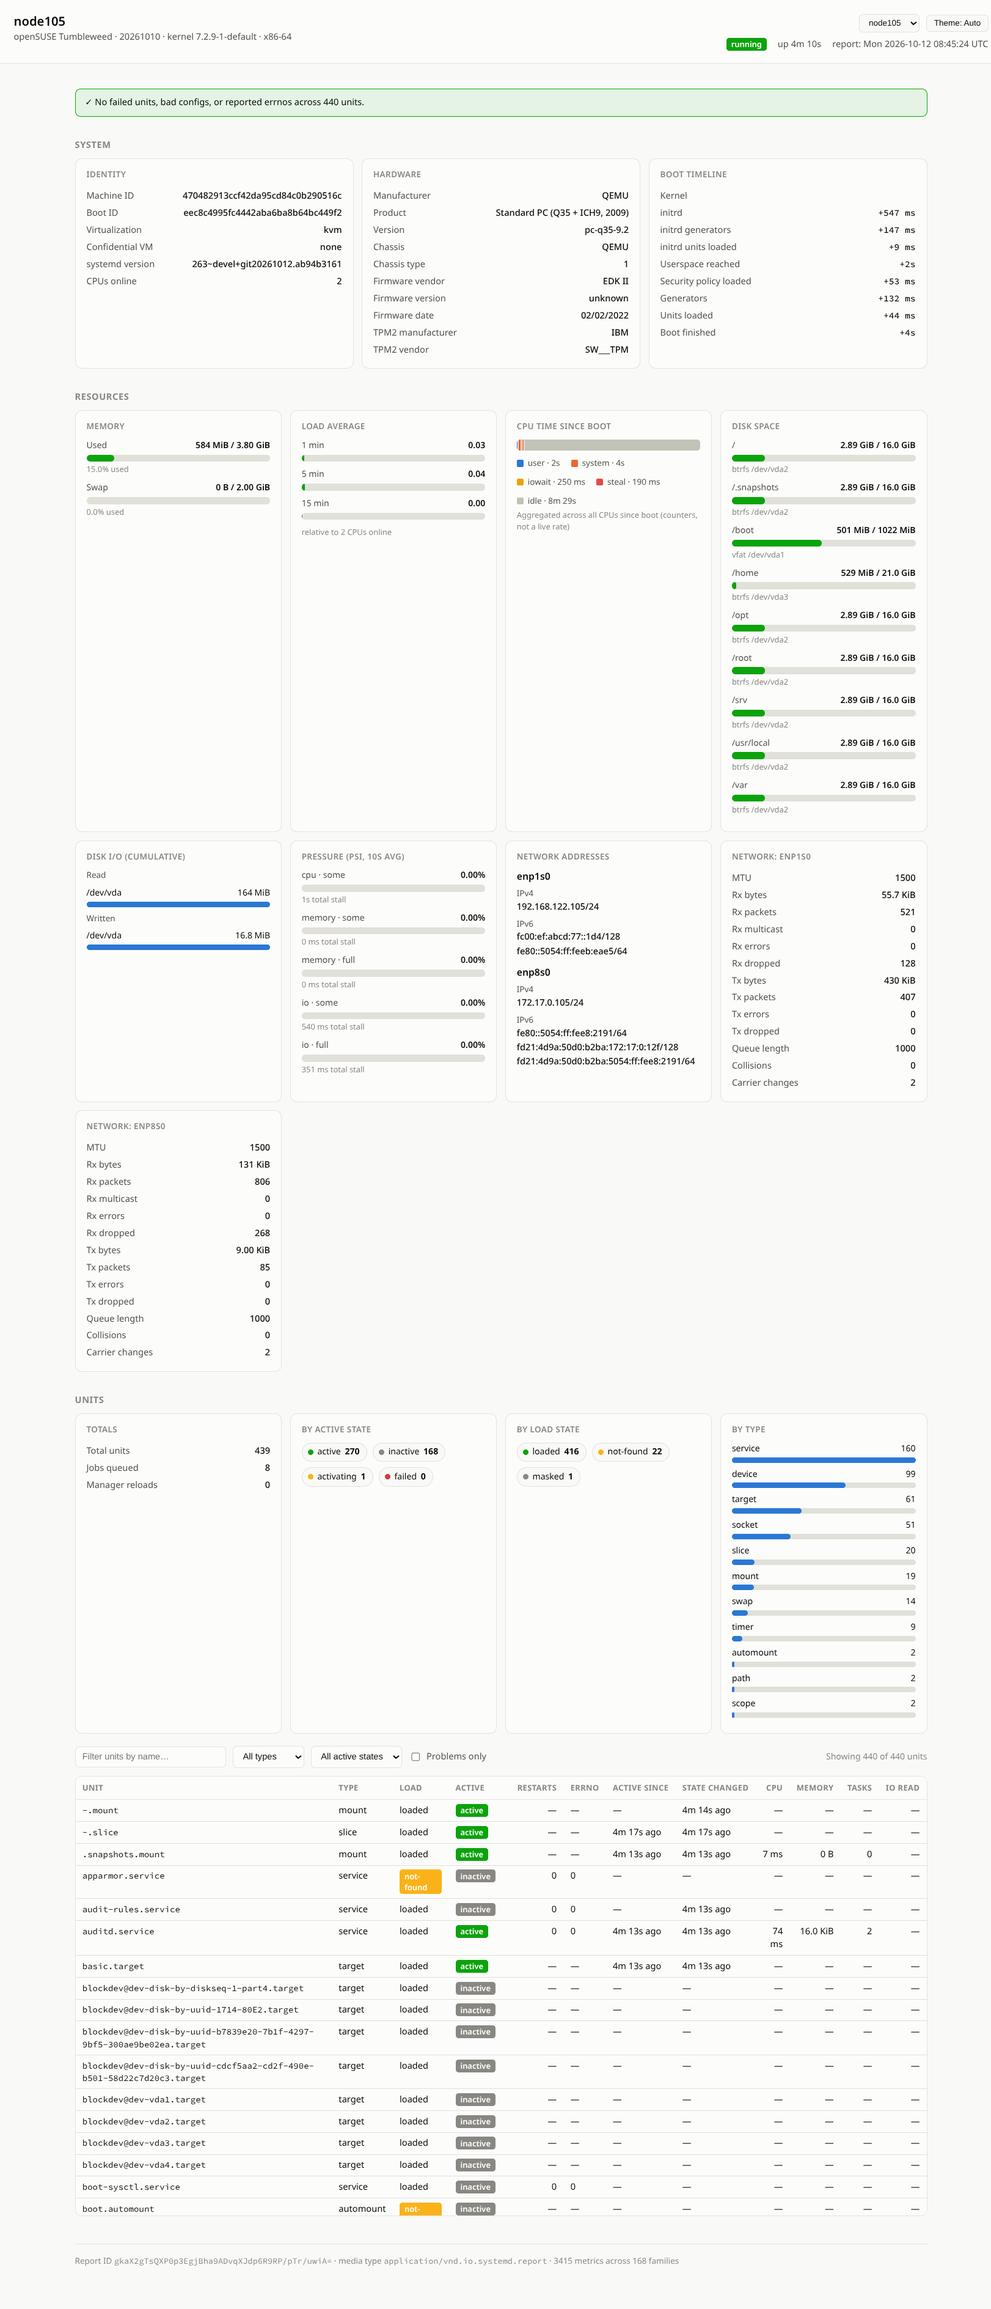
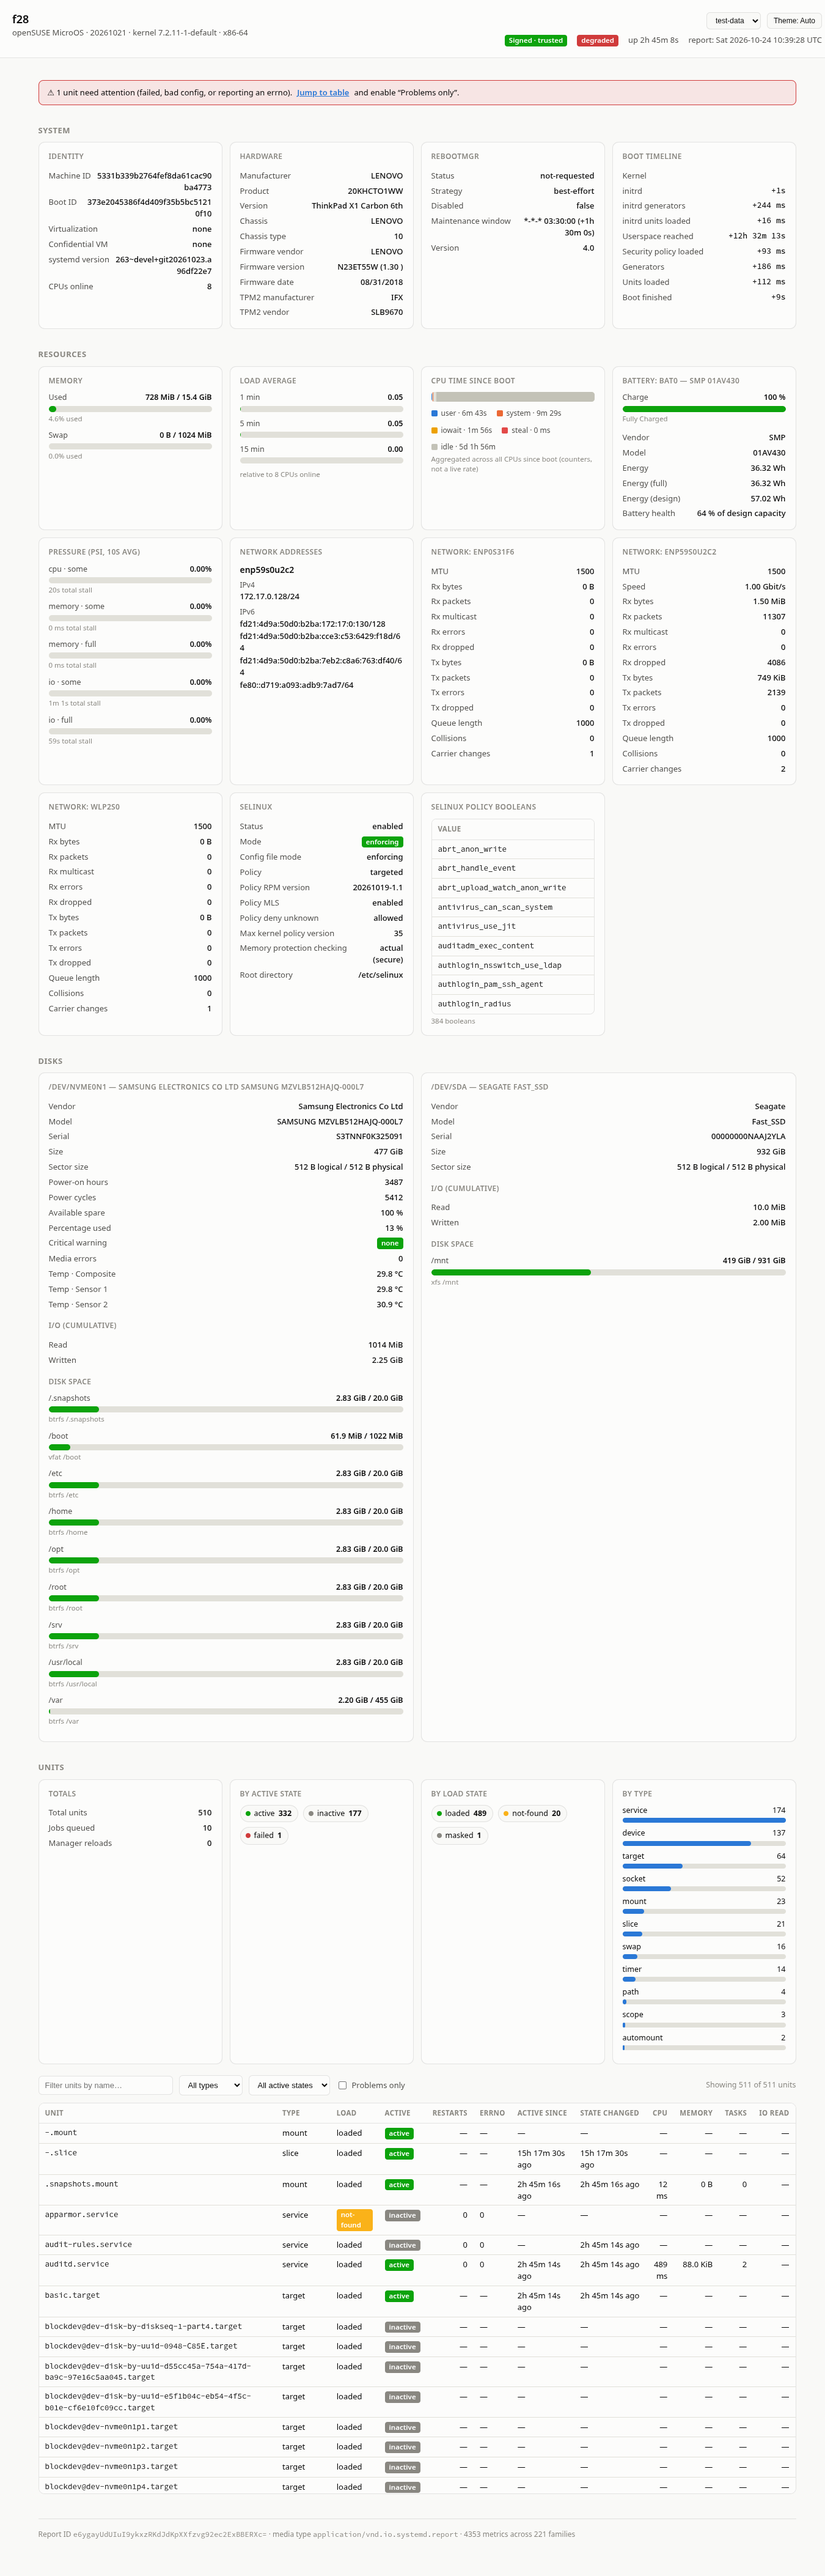
Add UPower.Battery to html dashboard

diff --git a/internal/dashboard/dashboard_template.html b/internal/dashboard/dashboard_template.html
@@ -688,6 +688,50 @@ function kv(container, label, val, title) {
     }
   }
 
+  // Battery (UPower)
+  {
+    function battValue(name, object) {
+      const m = METRICS.find(x => x.name === name && x.object === object);
+      return m ? m.value : undefined;
+    }
+    const batteries = [...new Set(
+      METRICS.filter(m => m.name.startsWith('org.openSUSE.Metrics.UPower.Battery.') && m.object).map(m => m.object)
+    )].sort();
+    batteries.forEach(batt => {
+      const vendor = battValue('org.openSUSE.Metrics.UPower.Battery.Vendor', batt);
+      const model = battValue('org.openSUSE.Metrics.UPower.Battery.Model', batt);
+      const title = [vendor, model].filter(Boolean).join(' ');
+
+      const c = el('div', { class: 'card' });
+      c.appendChild(el('h3', { text: title ? `Battery: ${batt} — ${title}` : `Battery: ${batt}` }));
+
+      const state = battValue('org.openSUSE.Metrics.UPower.Battery.State', batt);
+      const charge = battValue('org.openSUSE.Metrics.UPower.Battery.Charge', batt);
+      if (charge != null) {
+        const sev = charge < 15 ? 'critical' : charge < 30 ? 'warning' : 'good';
+        fillMeter(c, charge, sev, 'Charge', charge.toFixed(0) + ' %', state || null,
+          desc('org.openSUSE.Metrics.UPower.Battery.Charge'));
+      } else {
+        kv(c, 'State', state, desc('org.openSUSE.Metrics.UPower.Battery.State'));
+      }
+
+      kv(c, 'Vendor', vendor, desc('org.openSUSE.Metrics.UPower.Battery.Vendor'));
+      kv(c, 'Model', model, desc('org.openSUSE.Metrics.UPower.Battery.Model'));
+
+      const energy = battValue('org.openSUSE.Metrics.UPower.Battery.Energy', batt);
+      const energyFull = battValue('org.openSUSE.Metrics.UPower.Battery.EnergyFull', batt);
+      const energyDesign = battValue('org.openSUSE.Metrics.UPower.Battery.EnergyDesign', batt);
+      kv(c, 'Energy', energy != null ? energy.toFixed(2) + ' Wh' : null, desc('org.openSUSE.Metrics.UPower.Battery.Energy'));
+      kv(c, 'Energy (full)', energyFull != null ? energyFull.toFixed(2) + ' Wh' : null, desc('org.openSUSE.Metrics.UPower.Battery.EnergyFull'));
+      kv(c, 'Energy (design)', energyDesign != null ? energyDesign.toFixed(2) + ' Wh' : null, desc('org.openSUSE.Metrics.UPower.Battery.EnergyDesign'));
+      if (energyFull != null && energyDesign) {
+        kv(c, 'Battery health', (energyFull / energyDesign * 100).toFixed(0) + ' % of design capacity');
+      }
+
+      grid.appendChild(c);
+    });
+  }
+
   // Pressure (PSI)
   {
     const combos = [];
